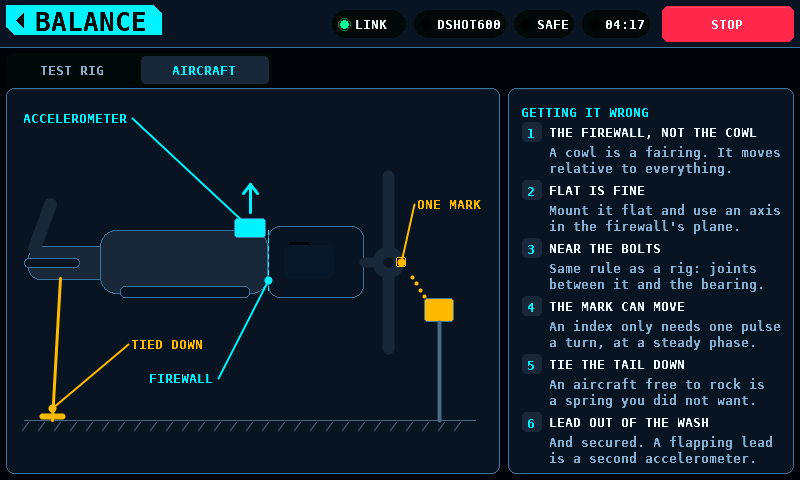
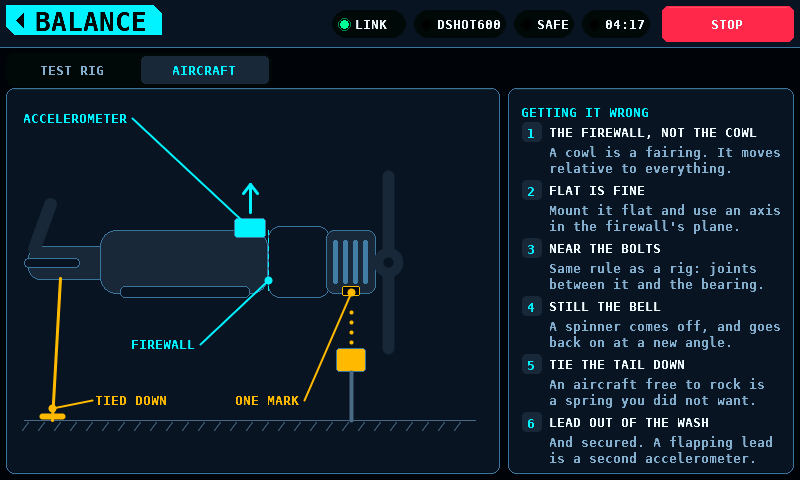
The mark goes on the bell on an aircraft too
A spinner comes off.  Every time it is taken away for transport it goes
back on at a new angle, and the phase reference the last balance was
measured against goes with it.  The bell is part of the rotor and never
moves, so it is the mark's place on a model for a reason the rig never
had to care about.

The cowl is drawn short to suit, which is honest rather than convenient:
on a great many electric models the outrunner stands proud of it.  That
gives the same arrangement as the rig -- sensor underneath, looking
straight up at the bell, crossing nothing.

The leader had to move again.  Between the bell and the disc there is no
gap for one to climb through, so it goes down and left instead.

diff --git a/shared/ui/balance_screen.c b/shared/ui/balance_screen.c
@@ -244,27 +244,34 @@ static void draw_aircraft(gfx_canvas_t *c)
     /*
      * The cowl, drawn as the separate piece it is.  It is a fairing: screwed
      * to a former, often on rubber, and free to move relative to the thing
-     * whose vibration you want.
+     * whose vibration you want.  Drawn short, because on a great many
+     * electric models the outrunner stands proud of it -- which is what makes
+     * the rest of this possible.
      */
-    gfx_fill_round_rect(c, fw, axis - 36, 96, 72, 12,
+    gfx_fill_round_rect(c, fw, axis - 36, 62, 72, 12,
                         ui_theme_color(UI_C_PANEL));
-    gfx_draw_round_rect(c, fw, axis - 36, 96, 72, 12, edge);
-    gfx_fill_round_rect(c, fw + 20, axis - 20, 22, 16, 3,
-                        ui_theme_color(UI_C_BG));
+    gfx_draw_round_rect(c, fw, axis - 36, 62, 72, 12, edge);
 
     /* The firewall behind it: the one rigid face at this end of the model. */
     for (int y = axis - 32; y < axis + 32; y += 8) {
         gfx_vline(c, fw, y, 5, ink);
     }
-    /* The motor inside, shown faintly because you cannot get at it. */
-    gfx_fill_round_rect(c, fw + 16, axis - 17, 50, 34, 6,
-                        gfx_lerp(ui_theme_color(UI_C_PANEL), skin, 90));
 
-    /* Spinner and disc, clear of the cowl. */
-    gfx_capsule_aa(c, fw + 96, axis, prop - 8, axis, 10, skin);
+    /* The bell, ahead of the cowl and turning. */
+    const int bell_x = fw + 58;
+    const int bell_w = 50;
+    gfx_fill_round_rect(c, bell_x, axis - 32, bell_w, 64, 8, skin);
+    gfx_draw_round_rect(c, bell_x, axis - 32, bell_w, 64, 8, edge);
+    for (int i = 0; i < 4; ++i) {
+        gfx_fill_round_rect(c, bell_x + 7 + i * 10, axis - 22, 5, 44, 2,
+                            ui_theme_color(UI_C_GRID_STRONG));
+    }
+
+    /* Spinner and disc. */
+    gfx_capsule_aa(c, bell_x + bell_w, axis, prop - 6, axis, 9, skin);
     gfx_capsule_aa(c, prop, axis - 12, prop, axis - 86, 12, skin);
     gfx_capsule_aa(c, prop, axis + 12, prop, axis + 86, 12, skin);
-    gfx_fill_circle_aa(c, prop, axis, 16, skin);
+    gfx_fill_circle_aa(c, prop, axis, 15, skin);
     gfx_fill_circle_aa(c, prop, axis, 5, ui_theme_color(UI_C_PANEL));
 
     /*
@@ -282,21 +289,22 @@ static void draw_aircraft(gfx_canvas_t *c)
     gfx_capsule_aa(c, ax + 7, axis - 69, ax, axis - 78, 3, ink);
 
     /*
-     * The mark and its sensor.  With a cowl on there is nothing else to look
-     * at, and the spinner will do: an index only has to give one pulse a turn
-     * at a steady phase, and unlike the accelerometer it does not care how
-     * rigidly it is held.
+     * The mark on the bell here too, and for a reason the rig did not have to
+     * care about: a spinner comes off.  Every time it is taken away for
+     * transport it goes back on at a new angle, and the phase reference the
+     * last balance was measured against goes with it.  The bell is part of
+     * the rotor and never moves.
      */
-    gfx_fill_round_rect(c, prop + 8, axis - 5, 10, 10, 2,
+    const int mark_x = bell_x + bell_w / 2;
+    gfx_fill_round_rect(c, mark_x - 9, axis + 24, 18, 10, 2,
                         ui_theme_color(UI_C_BG));
-    gfx_draw_round_rect(c, prop + 8, axis - 5, 10, 10, 2, warn);
-    gfx_fill_round_rect(c, 424, 250, 30, 24, 3, warn);
-    gfx_draw_round_rect(c, 424, 250, 30, 24, 3, edge);
-    gfx_capsule_aa(c, 439, 274, 439, ground, 4, faint);
+    gfx_draw_round_rect(c, mark_x - 9, axis + 24, 18, 10, 2, warn);
+
+    gfx_fill_round_rect(c, mark_x - 15, 300, 30, 24, 3, warn);
+    gfx_draw_round_rect(c, mark_x - 15, 300, 30, 24, 3, edge);
+    gfx_capsule_aa(c, mark_x, 324, mark_x, ground, 4, faint);
     for (int i = 0; i < 4; ++i) {
-        const float t = (float)i / 4.0f;
-        gfx_fill_circle_aa(c, 424 - (int)(16.0f * t),
-                           248 - (int)(26.0f * t), 2, warn);
+        gfx_fill_circle_aa(c, mark_x, 294 - i * 10, 2, warn);
     }
 
     /* Tied down at the tail, because a machine free to rock is a spring
@@ -305,11 +313,11 @@ static void draw_aircraft(gfx_canvas_t *c)
     gfx_capsule_aa(c, 42, ground - 4, 62, ground - 4, 6, warn);
 
     callout(c, ax, axis - 34, 24, 62, "ACCELEROMETER", ink);
-    callout(c, fw, axis + 18, 150, 322, "FIREWALL", ink);
-    /* Out to the right of the disc: any leader that leaves the mark upward
-     * runs the length of a blade. */
-    callout(c, prop + 13, axis, 418, 148, "ONE MARK", warn);
-    callout(c, 52, ground - 12, 132, 288, "TIED DOWN", warn);
+    callout(c, fw, axis + 18, 132, 288, "FIREWALL", ink);
+    /* Down and left: between the bell and the disc there is no gap for a
+     * leader to climb through. */
+    callout(c, mark_x, axis + 30, 236, 344, "ONE MARK", warn);
+    callout(c, 52, ground - 12, 96, 344, "TIED DOWN", warn);
 }
 
 /* The rules, numbered, because each one is a way of getting it wrong. */
@@ -349,9 +357,9 @@ static const rule_t k_air_rules[] = {
     { "NEAR THE BOLTS",
       "Same rule as a rig: joints",
       "between it and the bearing." },
-    { "THE MARK CAN MOVE",
-      "An index only needs one pulse",
-      "a turn, at a steady phase." },
+    { "STILL THE BELL",
+      "A spinner comes off, and goes",
+      "back on at a new angle." },
     { "TIE THE TAIL DOWN",
       "An aircraft free to rock is",
       "a spring you did not want." },

diff --git a/docs/Screens.md b/docs/Screens.md
@@ -265,10 +265,13 @@ accelerometer goes flat against it -- which is worth saying, because a
 three-axis part mounted flat puts two of its axes in the firewall's plane,
 across the shaft. Use one of those and ignore the third.
 
-The index mark is the one thing that relaxes. With a cowl on there is nothing
-to look at but the spinner, and the spinner will do: an index only has to give
-one pulse a turn at a steady phase, and unlike the accelerometer it does not
-care how rigidly it is held.
+The mark still goes on the bell, and here there is a second reason for it: **a
+spinner comes off**. Every time it is taken away for transport it goes back on
+at a new angle, and the phase reference the last balance was measured against
+goes with it. The bell is part of the rotor and never moves. On a great many
+electric models the outrunner stands proud of the cowl anyway, which is what
+makes the same arrangement as the rig possible -- sensor underneath, looking
+straight up, crossing nothing.
 
 And the whole aeroplane has to be tied down. A machine free to rock is a spring
 nobody chose, in series with everything you are trying to measure.

diff --git a/docs/Performance.md b/docs/Performance.md
@@ -23,12 +23,12 @@ panel 39.0 Hz, ~39 MB/s effective -> 976 KiB of traffic per panel frame
 
 mode       lines/frame     traffic   est. ms  est. fps
 -------------------------------------------------------
-frame           10,901     1363 KiB     35.8      19.5
-frame-idle          952      119 KiB      3.1      39.0
-sim             11,713     1464 KiB     38.4      19.5
-chrome          30,449     3806 KiB     99.9       9.8
+frame           10,899     1362 KiB     35.8      19.5
+frame-idle          953      119 KiB      3.1      39.0
+sim             11,710     1464 KiB     38.4      19.5
+chrome          30,446     3806 KiB     99.9       9.8
 overview           948      118 KiB      3.1      39.0
-servo           15,446     1931 KiB     50.7      19.5
+servo           15,445     1931 KiB     50.7      19.5
 servo-grip        2,977      372 KiB      9.8      39.0
 clear           12,006     1501 KiB     39.4      19.5
 vlines           8,160     1020 KiB     26.8      19.5

diff --git a/README.md b/README.md
@@ -355,7 +355,7 @@ samples currently costs **740**.
 | `shared/ui/motor_screen.c` | 175 | 169 | 96.6% |
 | `shared/ui/servo_screen.c` | 344 | 306 | 89.0% |
 | `shared/ui/analyser_screen.c` | 214 | 204 | 95.3% |
-| `shared/ui/balance_screen.c` | 169 | 168 | 99.4% |
+| `shared/ui/balance_screen.c` | 171 | 170 | 99.4% |
 | `shared/ui/programmer_screen.c` | 311 | 294 | 94.5% |
 | `shared/ui/log_viewer_screen.c` | 681 | 621 | 91.2% |
 | `shared/ui/settings_screen.c` | 241 | 228 | 94.6% |
@@ -383,7 +383,7 @@ samples currently costs **740**.
 | `shared/bench/throttle.c` | 53 | 45 | 84.9% |
 | `shared/bench/telemetry_sim.c` | 47 | 44 | 93.6% |
 | `shared/bench/log_writer.c` | 43 | 40 | 93.0% |
-| **total** | **6718** | **6359** | **94.7%** |
+| **total** | **6720** | **6361** | **94.7%** |
 
 _Generated by `tools/coverage.py`; CI runs `--check` and fails on drift._
 <!-- coverage:end -->
